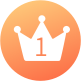
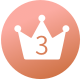
人人绩效：排行榜

diff --git a/src/components/RankingList.vue b/src/components/RankingList.vue
@@ -1,13 +1,14 @@
 <template>
     <div class="rankingList">
         <div class="listtitle">
-            <span>当月销售人员排行榜</span>            
-            <span>{{item.type}}</span>
+            <span>金蝶中国当月销售人员排行榜{{item.type}}</span>         
         </div>
         <ul class="list">
-            <li v-for="(item,index) in item.list" :key="item.id">
-                <i :class="{medal:true,'top':isTop}" :id="'medal'+item.id">{{index+1}}</i>
-                <i class="photo" :id="'photo'+item.id"></i>
+            <li v-for="(item,index) in item.list" :key="item.id" :class="{'top':isTop}">
+                <div class="medal" :id="'medal'+item.id">
+                    <span class="index" v-if="isTop">{{index+1}}</span> 
+                    <span class="index" v-else>{{index+80}}</span>                               
+                </div>
                 <span class="name">{{item.name}}</span>
                 <span class="figure">{{item.figure}}</span>                
             </li>
@@ -35,90 +36,88 @@ export default {
         background: #27314A;
         border-radius: 10px 0px 0px 10px;    
     }
-    .listtitle{
-        width: 12.32rem;
-        margin-bottom: 0.32rem;
-        margin-left: 2rem;
-        float: left;
-        span{
-            font-size: 0.82rem;
-            color: #FFFFFF;
-            float: left;
-        }
-        span:first-child{
-            width: 70%;
-            text-align: center;
-        }
-        span:last-child{
-            float: right;
-            width: 3rem;
-        }
+    .listtitle{   
+        margin-left:1.5rem;
+        margin-bottom:1.25rem;
+        padding-top: 1rem;     
+        span{            
+            height: 1.125rem;
+            font-size: 1.125rem;
+            font-family: SourceHanSansCN-Medium, SourceHanSansCN;
+            font-weight: 500;
+            color: #00A9FF;
+            line-height: 1.125rem;
+        }        
     }
     .list{
-        width: 12.32rem;
-        margin: 0 auto;
-        li{
-            font-size: 0.576rem;
-            color: #96CEFF;          
-            width: 100%;
-            float: left;
-            margin-left:0.6rem;
-            margin-top:0.2rem;
-            margin-bottom:0.5rem;
+        margin-left:1.5rem;       
+        li{            
+            height: 2.4rem;
+            font-size: 0.9rem;           
+            font-weight: 400;
+            color: #FF9400;
+            line-height: 1.35rem;  
+            margin-bottom: 0.6rem;        
             .medal{
-                float: left;
-                width: 0.624rem;
-                height: 1rem;
-                margin-right: 1rem;
-                font-style: normal;
-                line-height: 1rem;
-                text-align: center;
-            }
-            .photo{
-                float: left;
-                width: 1.2rem;
-                height: 1.2rem;
-                margin-right: 1rem;
-                font-style: normal;
-                line-height: 1rem;
-                text-align: center;
-                background: url("../assets/header1.png") center no-repeat;
-                background-size: contain;
-                margin-top:-0.1rem;
-            }
-            .name{
-                float:left;
-                width:3rem;
-                height:1rem;
-                line-height:1rem;
-            }
-            .figure{
-                float:right;
-                width:5rem;
-                height:1rem;
-                line-height:1rem;
-                text-align:center;
+                float: left; 
+                width: 2.4rem;               
+                height: 2.4rem;                             
+                border-radius: 1.2rem; 
+                background:#35425E;
+                position: relative;
+                margin-right:2.75rem;
+                .index{
+                    font-size: 1rem;      
+                    font-weight: 400;
+                    color: #D3D5DA;
+                    line-height: 2.4rem;   
+                    position:absolute;
+                    left: 50%;
+                    transform: translate(-50%);
+                }               
+              
+            } 
+            .name,.figure{
+                float:left;                
+                height: 2.4rem;
+                font-size: 0.9rem;                
+                font-weight: 400;
+                color: #FFFFFF;
+                line-height: 2.4rem;                
+            }           
+            .figure{  
+                float: right;             
+                margin-right: 3.025rem;
             }
         }
-        li:first-child{
-            color: #F0C419;
-            .top{
+        li.top:first-child{
+            .name,.figure{
+                color: #FF9400;
+            }
+            .medal{
                 background: url("../assets/medal-gold.png") center no-repeat;
-                background-size: contain;
+                background-size: contain;                
+                -webkit-text-fill-color: transparent;
             }
         }
-        li:nth-of-type(2){
-            color: #ECF0F1;
-            .top{
+        li.top:nth-of-type(2){
+            .name,.figure{
+                color: #96BFFF;
+            }
+            .medal{
                 background: url("../assets/medal-silver.png") center no-repeat;
-                background-size: contain;
+                background-size: contain;                
+                -webkit-text-fill-color: transparent;
             }
         }
-        li:nth-of-type(3){
-            color: #F3A240;
-            .top{
+        li.top:nth-of-type(3){
+            .name,.figure{
+                color: #FFBD92;
+            }
+            .medal{
                 background: url("../assets/medal-bronze.png") center no-repeat;
-                background-size: contain;
+                background-size: contain;                
+                -webkit-text-fill-color: transparent;
             }
         }
     }

diff --git a/src/components/ProgressBar.vue b/src/components/ProgressBar.vue
@@ -35,7 +35,7 @@ export default {
 </script>
 <style lang="scss" scoped>
     .progressBar{
-        margin-top:0.8rem;
+        margin-top:0.7rem;
         .desc{
             position: relative;
             .title{   
